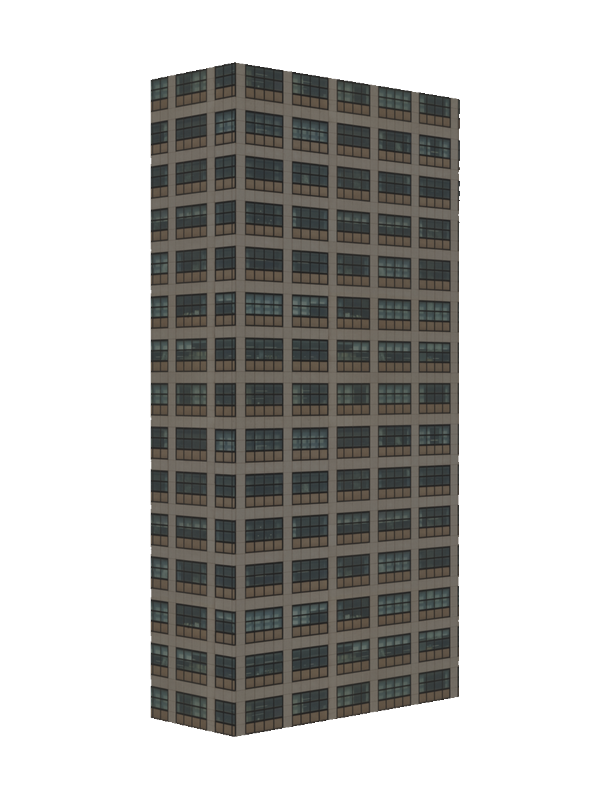
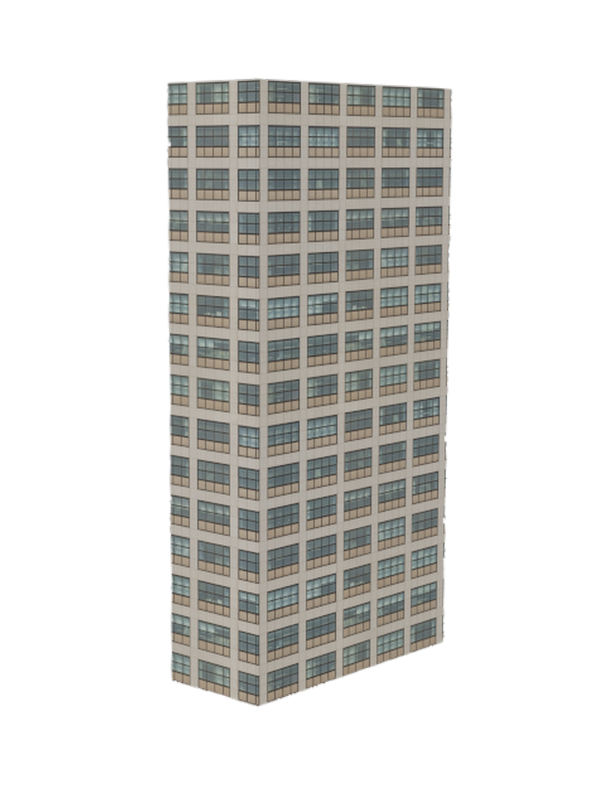
feat(models: building): changed gallery image and fixed last selected model bug

diff --git a/src/ui/windows/right-pannel-window.cc b/src/ui/windows/right-pannel-window.cc
@@ -68,26 +68,31 @@ void RightPannelWindow::render()
 	ImGui::Text("Name: %s (%d)" , name.c_str(), id);
 	ImGui::Text("Pos: (x: %.2f, y: %.2f, z: %.2f)", posX, posY, posZ);
 	ImGui::Text("Texture: %s", textureName.c_str());
-	ImGui::Text("Rotate:");
-	
-	if (ImGui::Button("-180"))
+
+	if (model->getID() != 1)
 	{
-		this->scene.getSelectedModel()->rotate(glm::radians(-180.f), glm::vec3(0, 1, 0));
-	}
-	ImGui::SameLine();
-	if (ImGui::Button("-90"))
-	{
-		this->scene.getSelectedModel()->rotate(glm::radians(-90.f), glm::vec3(0, 1, 0));
-	}
-	ImGui::SameLine();
-	if (ImGui::Button("90"))
-	{
-		this->scene.getSelectedModel()->rotate(glm::radians(90.f), glm::vec3(0, 1, 0));
-	}
-	ImGui::SameLine();
-	if (ImGui::Button("180"))
-	{
-		this->scene.getSelectedModel()->rotate(glm::radians(180.f), glm::vec3(0, 1, 0));
+		ImGui::Text("Rotate:");
+
+		if (ImGui::Button("-180"))
+		{
+			model->rotate(glm::radians(-180.f), glm::vec3(0, 1, 0));
+		}
+		ImGui::SameLine();
+		if (ImGui::Button("-90"))
+		{
+			model->rotate(glm::radians(-90.f), glm::vec3(0, 1, 0));
+		}
+		ImGui::SameLine();
+		if (ImGui::Button("90"))
+		{
+			model->rotate(glm::radians(90.f), glm::vec3(0, 1, 0));
+		}
+		ImGui::SameLine();
+		if (ImGui::Button("180"))
+		{
+			model->rotate(glm::radians(180.f), glm::vec3(0, 1, 0));
+		}
+
 	}
 	// center text
 

diff --git a/src/ui/windows/left-pannel-window.cc b/src/ui/windows/left-pannel-window.cc
@@ -96,7 +96,7 @@ LeftPannelWindow::LeftPannelWindow(Scene& scene) : Window(scene)
 	item.texture = texture;
 	item.createModel = [](float x, float y) {
 		return new Building("Building", "assets/models/b.obj", "assets/textures/diff/b.jpg", glm::vec3(x, 0.0f, y),
-			glm::vec3(0.002f, 0.002f, 0.002f), 90.0f);
+			glm::vec3(0.002f, 0.002f, 0.002f), 0.0f);
 	};
 	galleryItems_.push_back(item);
 }
@@ -246,6 +246,7 @@ void LeftPannelWindow::render()
 				model->setSelected(true);
 				previousModel = model;
 				scene.addModel(model->getID(), model);
+				scene.setSelectedModel(model->getID());
 			}
 
 			GL_CALL(glBindTexture(GL_TEXTURE_2D, 0));
